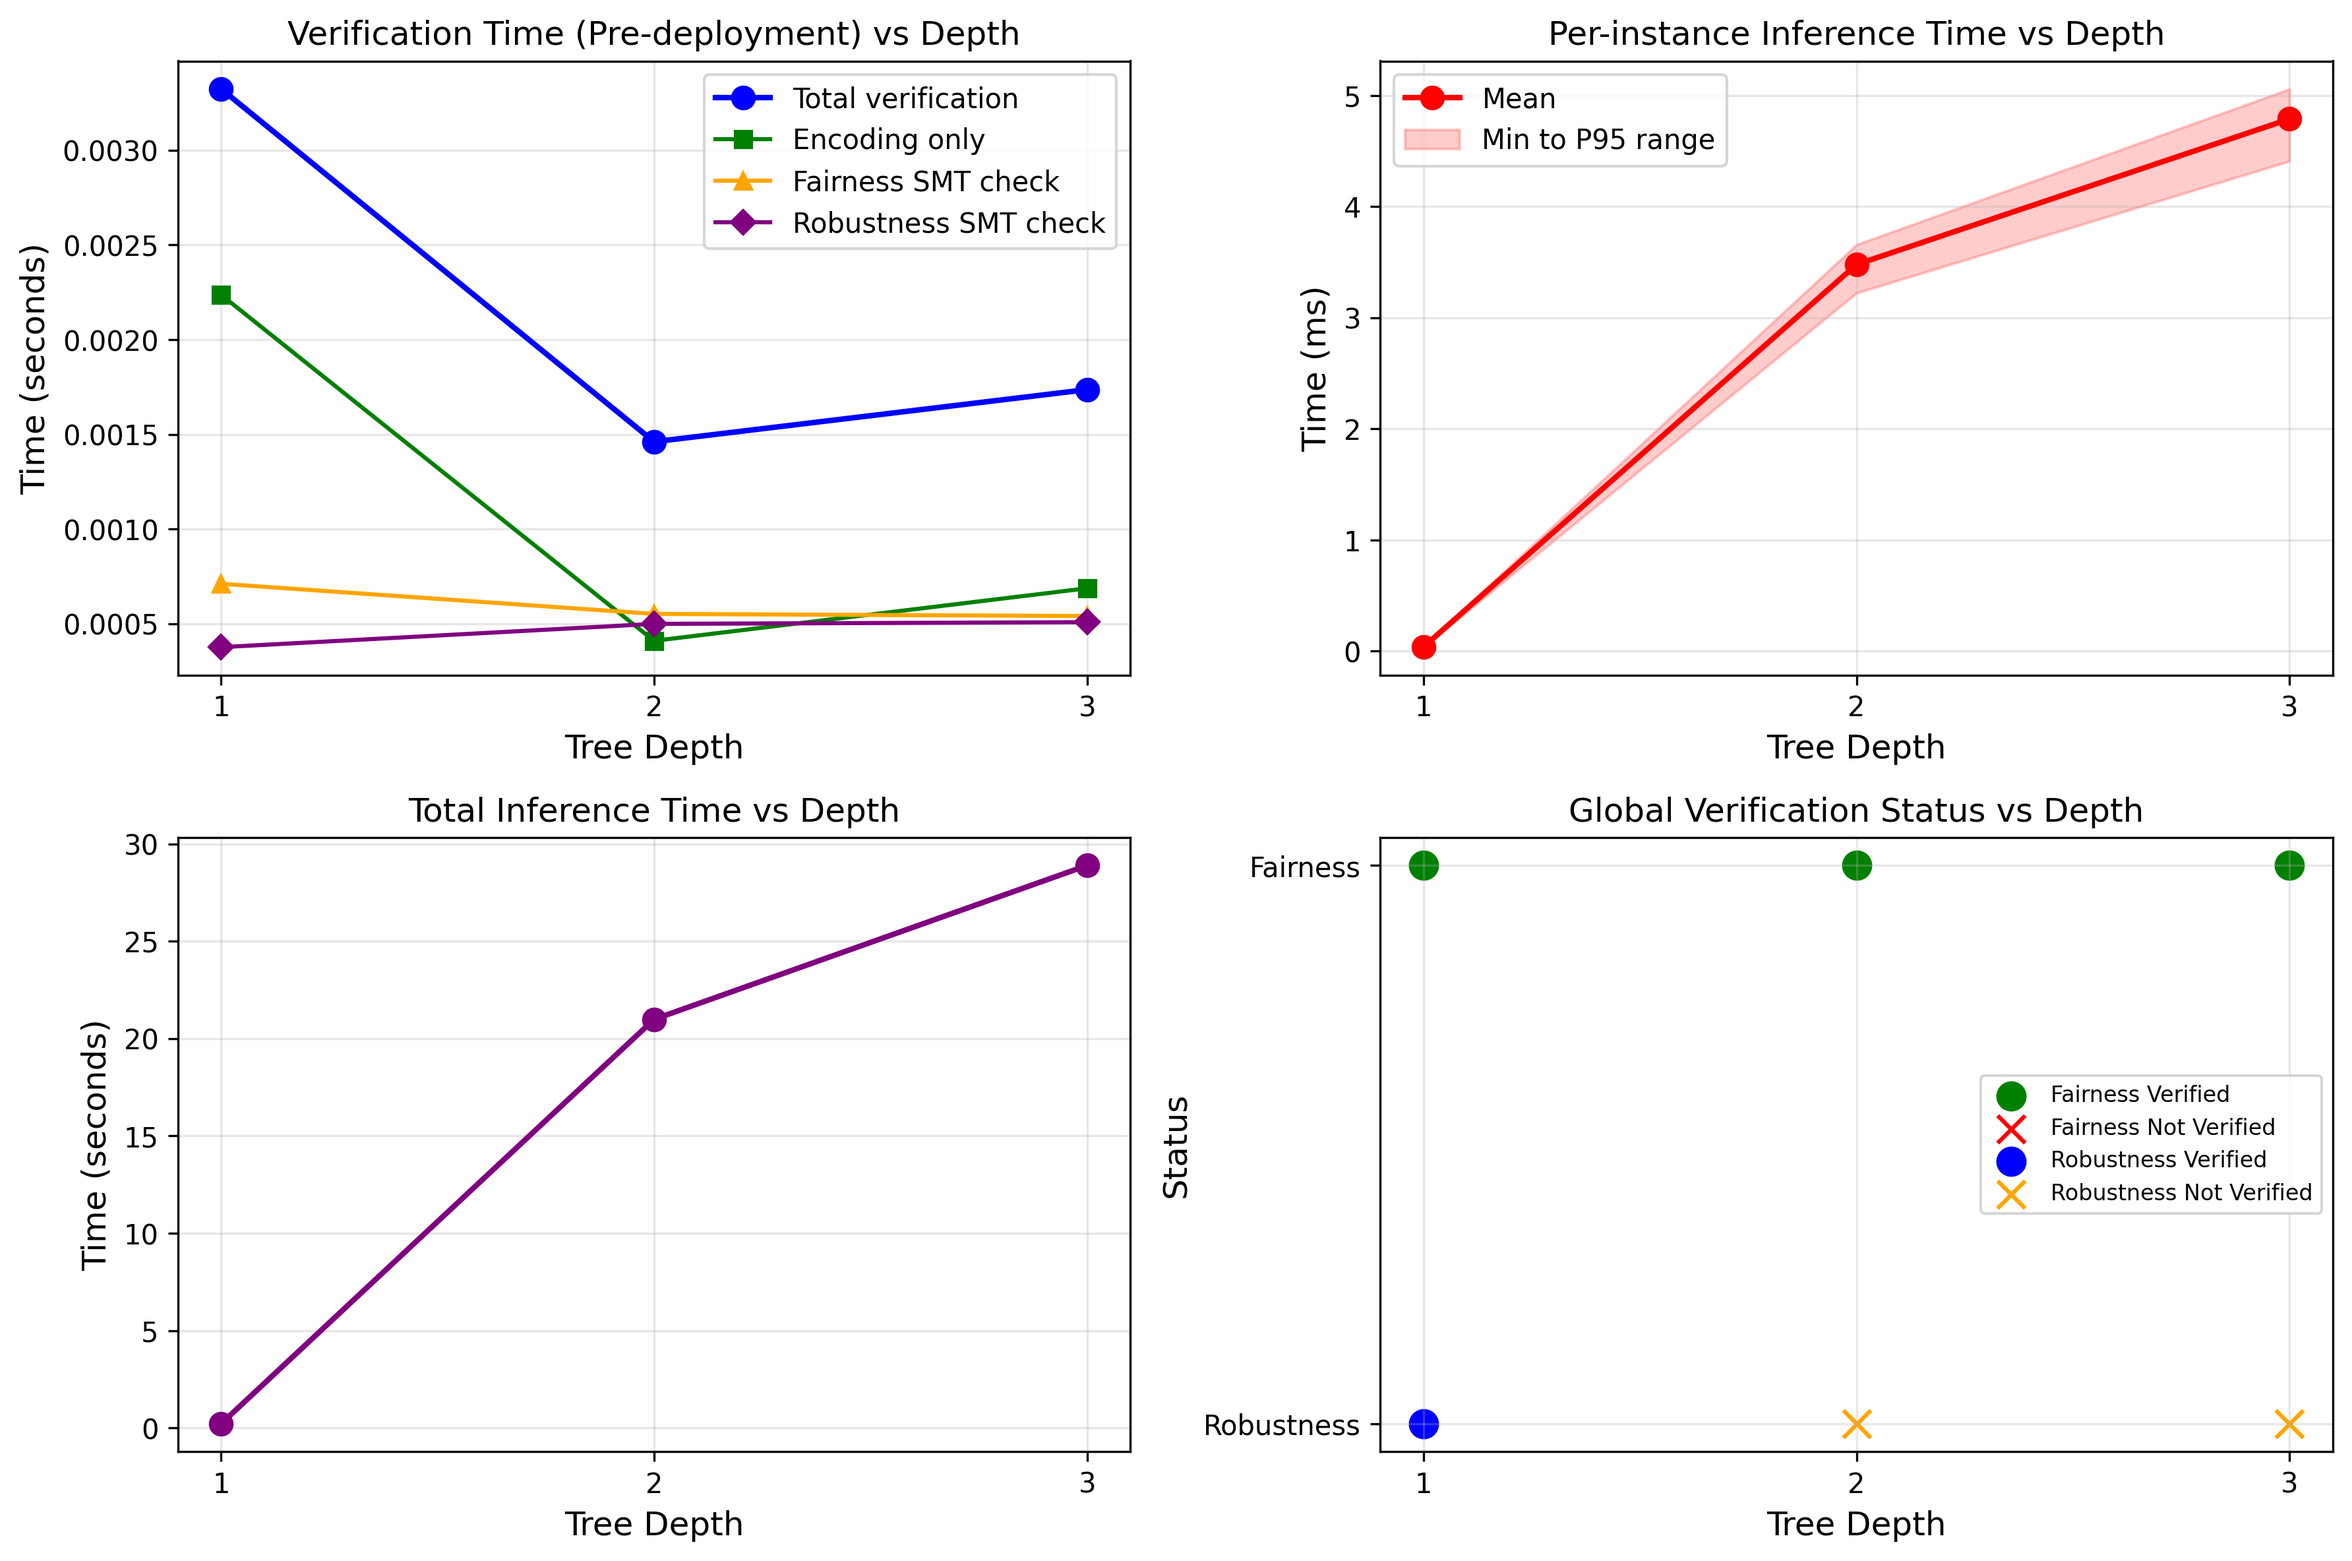
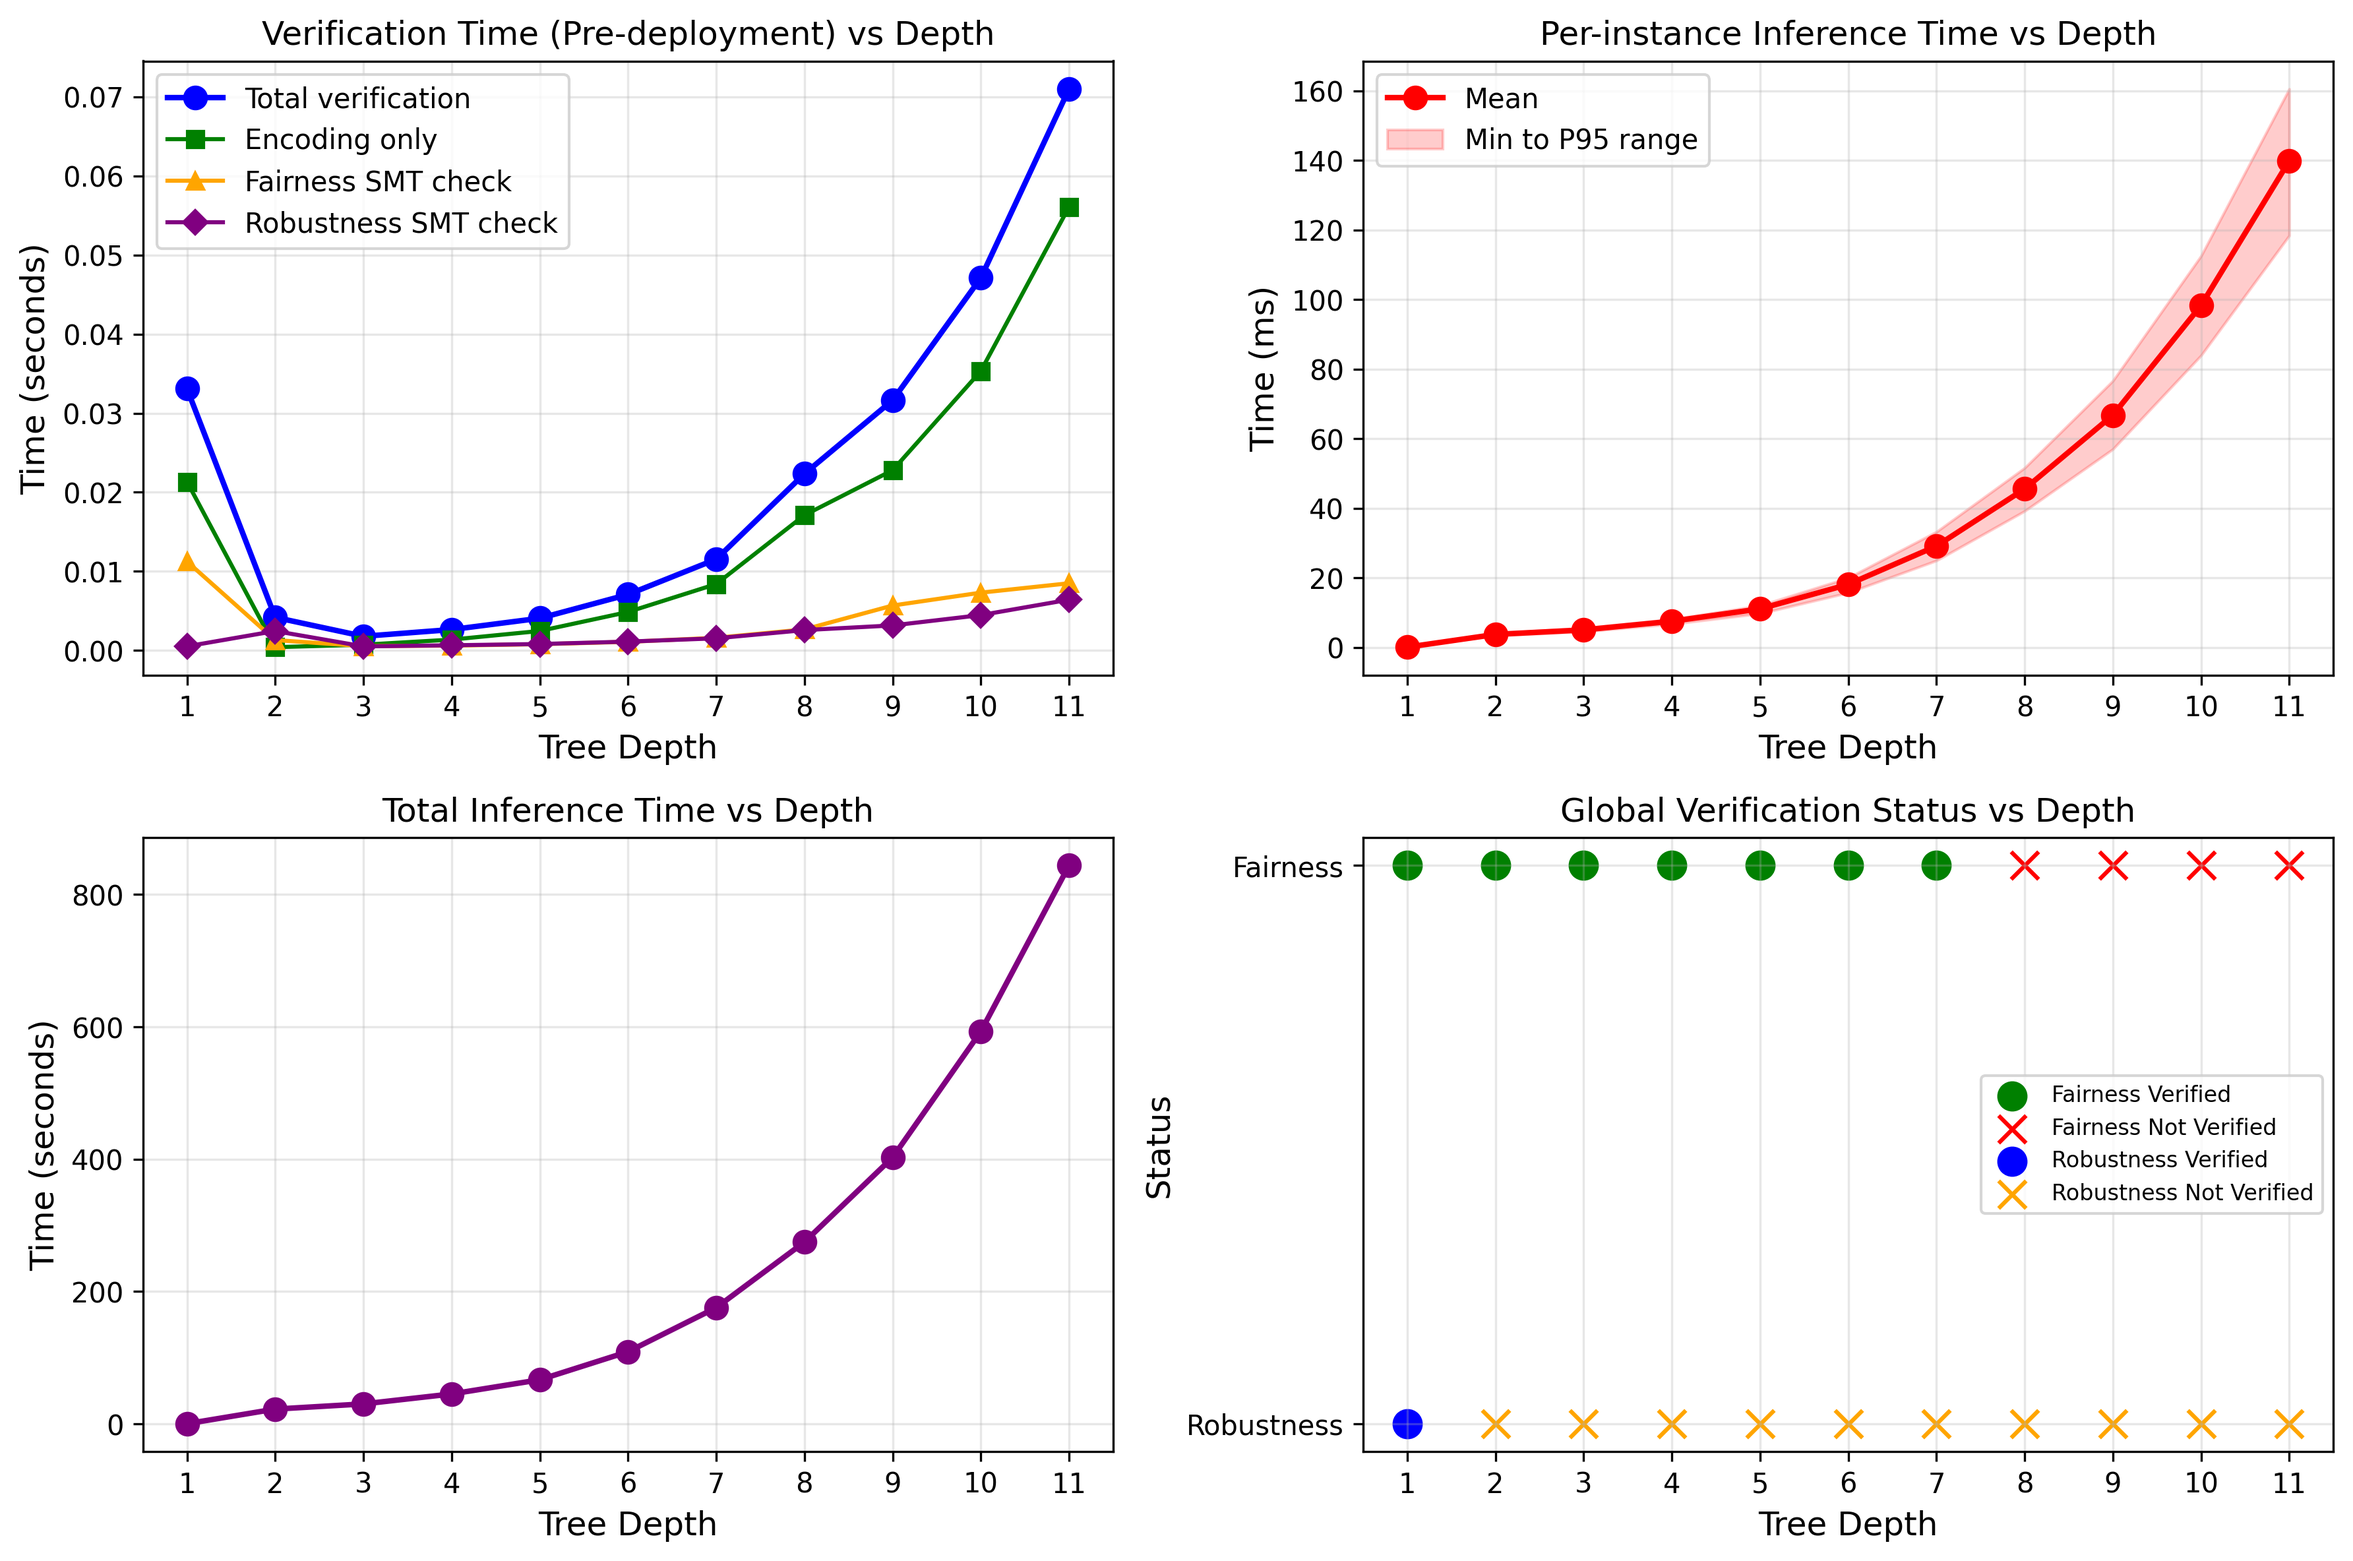
d

diff --git a/README.md b/README.md
@@ -26,3 +26,22 @@ uv run main.py help
 ## How to change parameters and dataset
 
 They could be changed in [config](./config.py)
+
+
+
+======================================================================
+Depth  Fair   Robust  Verification (s)   Inference Mean (ms)  Total Inference (s)
+----------------------------------------------------------------------
+1      Yes    Yes     0.0331             0.0365               0.2206
+2      Yes    No      0.0042             3.7034               22.3440
+3      Yes    No      0.0018             4.9965               30.1452
+4      Yes    No      0.0026             7.4930               45.2063
+5      Yes    No      0.0041             11.0517              66.6758
+6      Yes    No      0.0071             18.0761              109.0540
+7      Yes    No      0.0115             29.1141              175.6465
+8      No     No      0.0223             45.5468              274.7853
+9      No     No      0.0316             66.7521              402.7173
+10     No     No      0.0471             98.3084              593.0958
+11     No     No      0.0710             139.8901             843.9585
+======================================================================
+⏎
